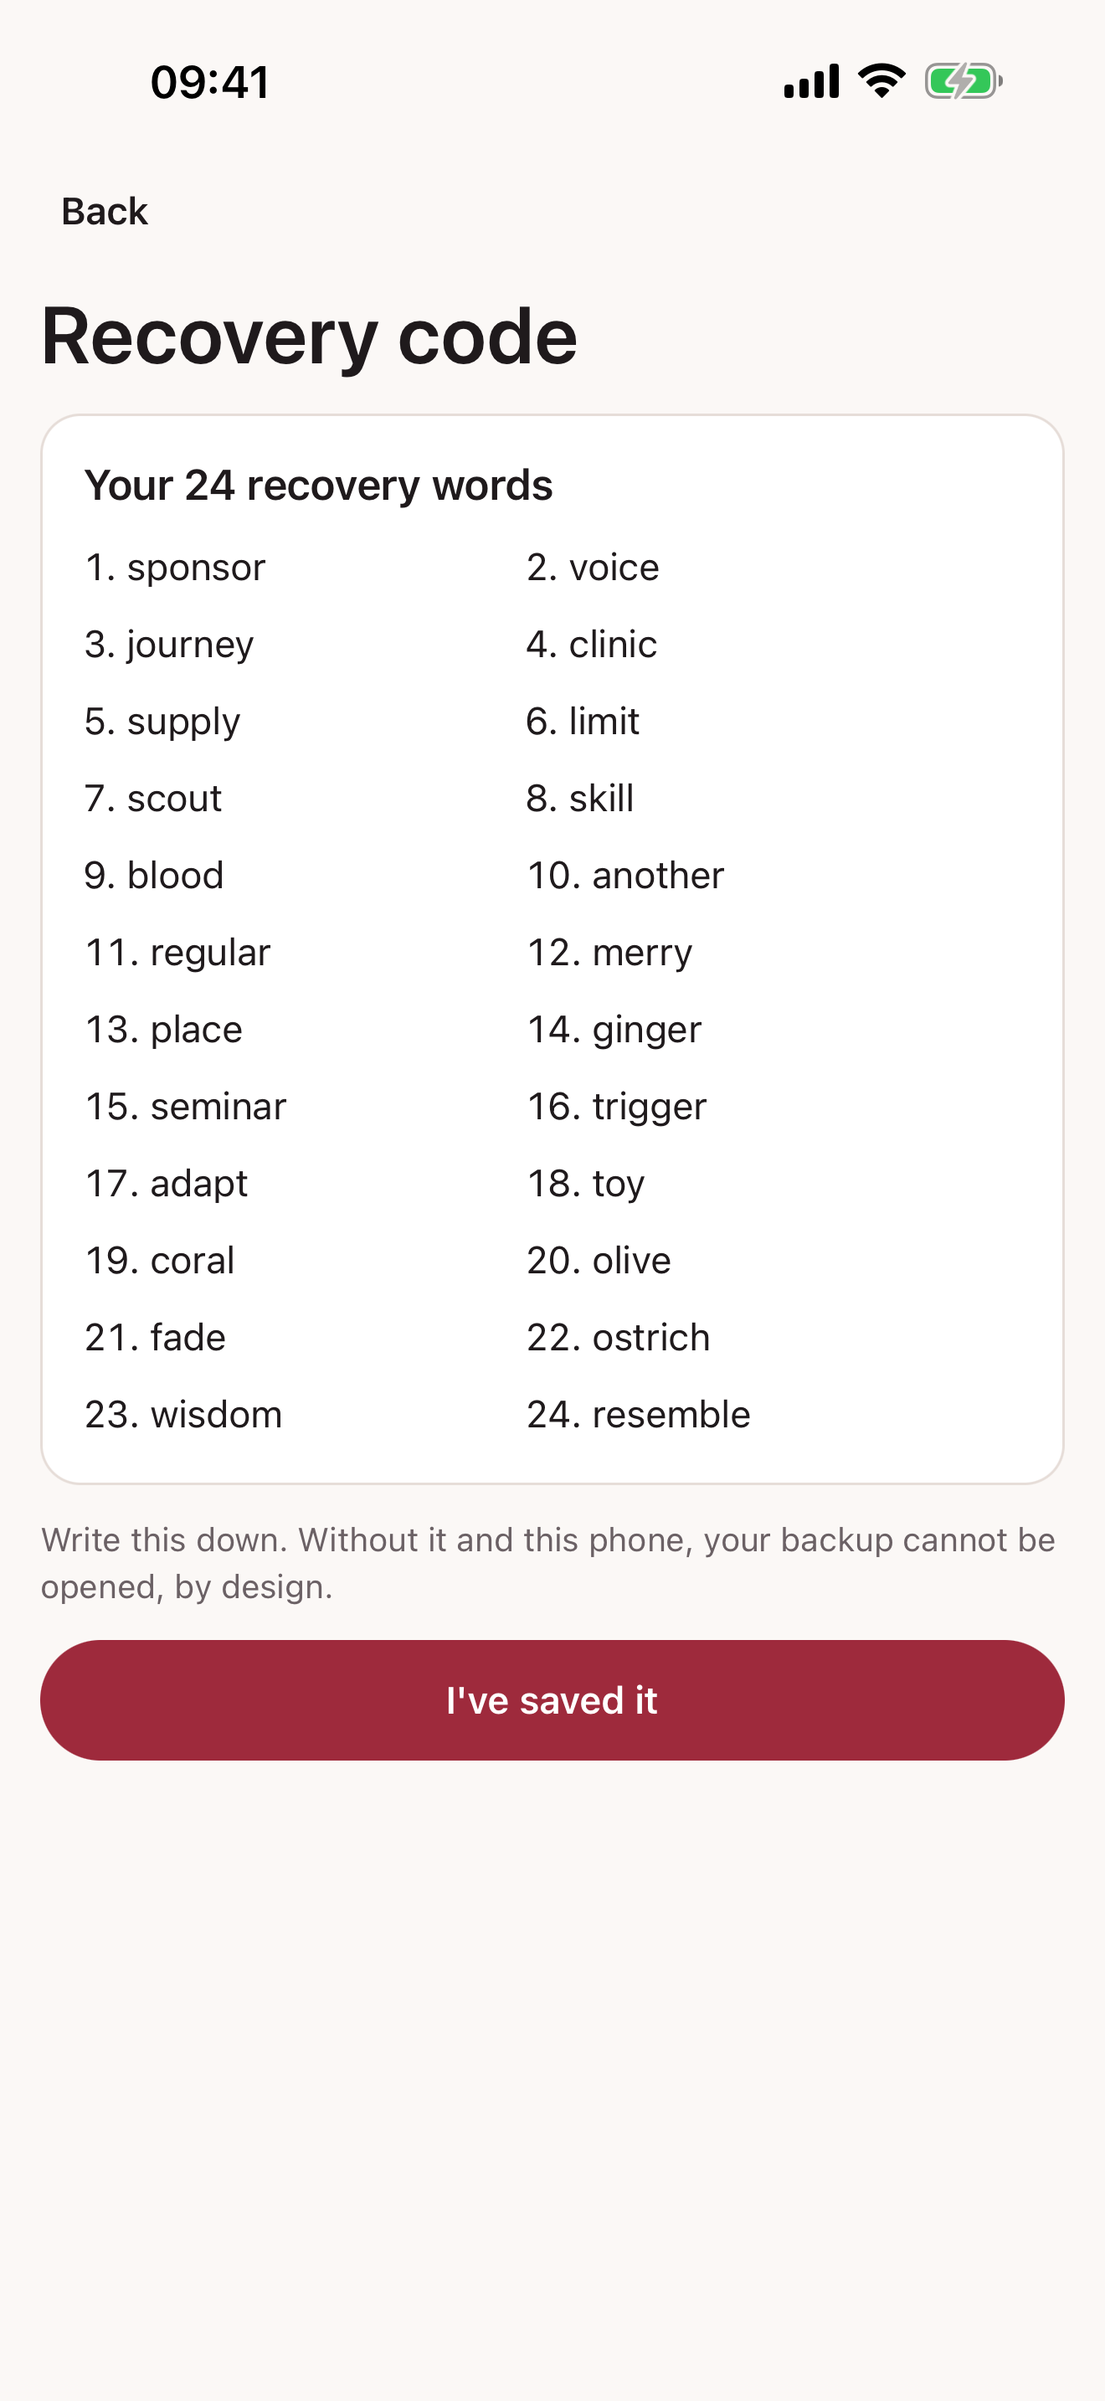
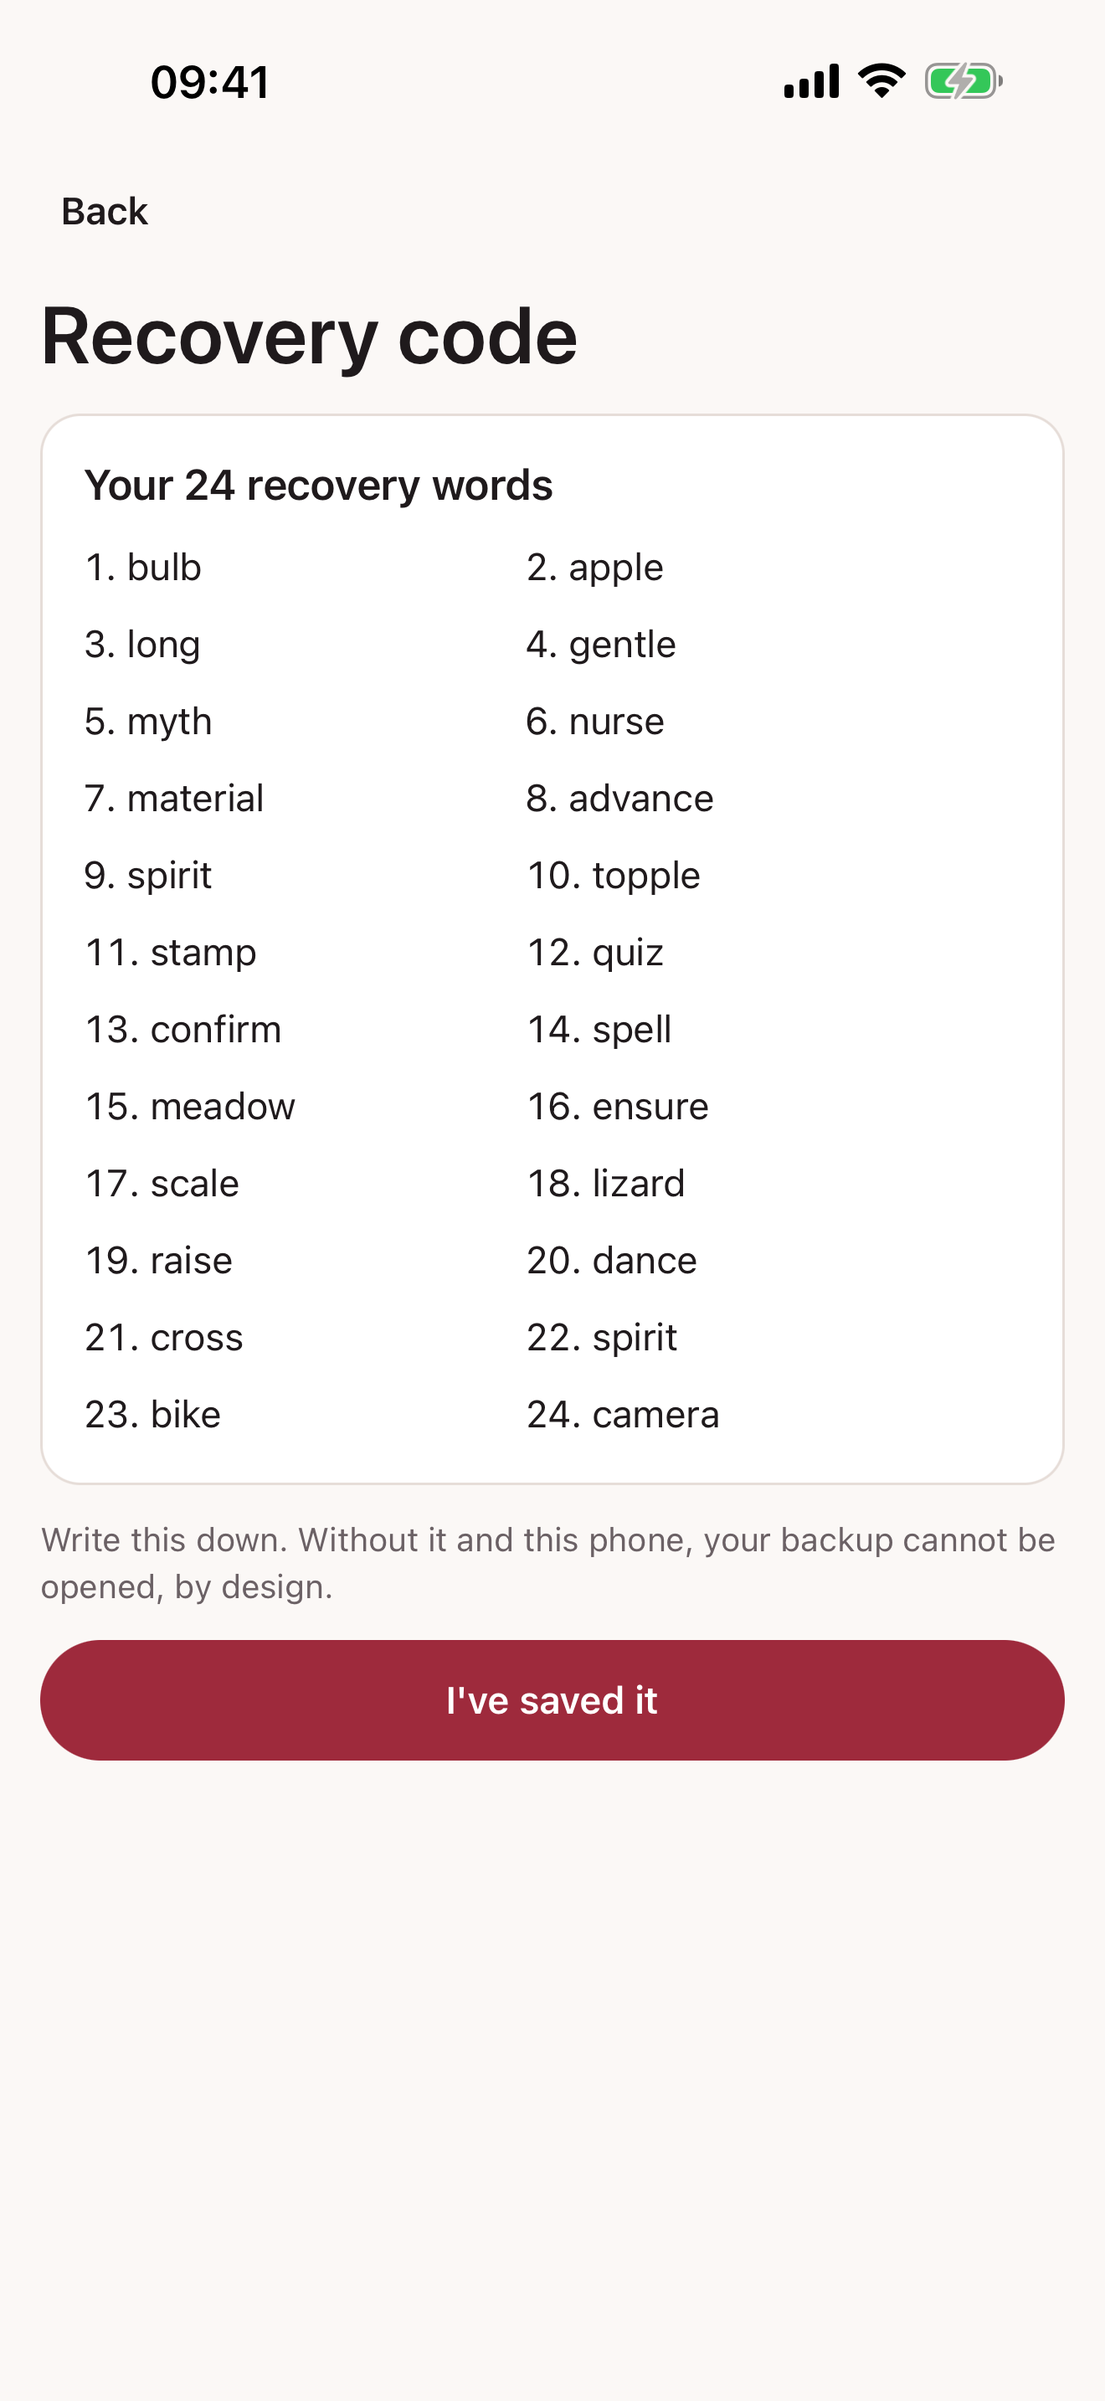
P2-12 security review fixes: masked passphrases, secure wipe, temp file cleanup

Changed region(s): [[0.528, 0.2172, 0.6523, 0.6206], [0.1242, 0.2172, 0.2485, 0.6206]]

diff --git a/apps/mobile/src/app/settings/backup.tsx b/apps/mobile/src/app/settings/backup.tsx
@@ -42,7 +42,7 @@ export default function BackupScreen() {
       if (__DEV__) console.log(`[backup] sealed ${bytes.length} bytes in ${Date.now() - started} ms`);
       if (created) setPending({ bytes, words: recoveryCodeFor(secret) });
       else { await shareFile(bytes, `sanguine-backup-${todayLocal()}.sgb`, 'application/octet-stream'); setMsg(t('settings.privacy.backupReady')); }
-    } catch (e) { setMsg((e as Error).message); } finally { setPct(undefined); }
+    } catch (e) { setMsg((e as Error).message); } finally { setPct(undefined); setPass(''); setPass2(''); }
   }
   async function restore() {
     if (!db || !store) return;
@@ -60,7 +60,7 @@ export default function BackupScreen() {
       if (r) { await refresh(); setMsg(t('settings.privacy.importDone', { n: r.imported })); }
     } catch (e) {
       setMsg(e instanceof BackupError && e.code === 'auth' ? t('settings.privacy.restoreWrongPassphrase') : (e as Error).message);
-    } finally { setPct(undefined); }
+    } finally { setPct(undefined); setPass(''); setCode(''); }
   }
 
   if (pending) {
@@ -87,8 +87,8 @@ export default function BackupScreen() {
     <SubScreen testID="screen-backup" title={t('settings.privacy.backup')}>
       <Segmented testIDPrefix="backup-mode" value={mode} onChange={(m) => { setMode(m); setMsg(undefined); }} options={[{ value: 'create', label: t('settings.privacy.backupCreate') }, { value: 'restore', label: t('settings.privacy.backupRestore') }]} />
       <Text variant="bodySmall" color="textSecondary">{t('settings.privacy.backupNote')}</Text>
-      <TextField testID="backup-pass" label={t('settings.privacy.passphrase')} value={pass} onChangeText={setPass} keyboardType="default" />
-      {mode === 'create' ? <TextField testID="backup-pass2" label={t('settings.privacy.passphraseConfirm')} value={pass2} onChangeText={setPass2} keyboardType="default" /> : <TextField testID="restore-code" label={t('settings.privacy.restoreCodeLabel')} value={code} onChangeText={setCode} keyboardType="default" />}
+      <TextField testID="backup-pass" secure label={t('settings.privacy.passphrase')} value={pass} onChangeText={setPass} keyboardType="default" />
+      {mode === 'create' ? <TextField testID="backup-pass2" secure label={t('settings.privacy.passphraseConfirm')} value={pass2} onChangeText={setPass2} keyboardType="default" /> : <TextField testID="restore-code" secure label={t('settings.privacy.restoreCodeLabel')} value={code} onChangeText={setCode} keyboardType="default" />}
       <Button testID={mode === 'create' ? 'backup-create' : 'backup-restore'} label={mode === 'create' ? t('settings.privacy.backupCreate') : t('settings.privacy.restorePick')} disabled={pct !== undefined || pass.length === 0} onPress={() => void (mode === 'create' ? create() : restore())} />
       {pct !== undefined ? <Text variant="bodySmall" testID="backup-progress" accessibilityLiveRegion="polite">{t('settings.privacy.backupWorking', { pct })}</Text> : null}
       {msg ? <Text variant="bodySmall" testID="backup-message" accessibilityLiveRegion="polite">{msg}</Text> : null}

diff --git a/apps/mobile/src/features/notifications/plan.test.ts b/apps/mobile/src/features/notifications/plan.test.ts
@@ -1,0 +1,34 @@
+import { addDays, type EngineSettings, type History, type ISODate, predict } from '@sanguine/engine';
+import { describe, expect, it } from 'vitest';
+import { planReminder, REMINDER_HOUR } from './plan';
+
+const S: EngineSettings = { lifeStates: [], recencyLambda: 1, window: 12 };
+function hist(): History {
+  const starts: ISODate[] = ['2026-09-30'];
+  for (const l of [29, 28]) starts.unshift(addDays(starts[0] as ISODate, -l));
+  return { cycles: starts.map((s, i) => ({ id: `c${i}`, start: s, quality: 'valid' as const })), temperatures: [], lh: [], mucus: [], cervix: [], logs: [] };
+}
+const today = '2026-10-10';
+const p = predict(hist(), S, today);
+
+describe('planReminder', () => {
+  it('fires the day before the 80% range starts, at 09:00, with the days until the range', () => {
+    const plan = planReminder(p, true, false, today, 8);
+    const lo = p.nextPeriod?.i80.lo as string;
+    expect(plan?.fireDate).toBe(addDays(lo, -1));
+    expect(plan?.hour).toBe(REMINDER_HOUR);
+    expect(plan?.lo).toBe(1);
+    expect(plan?.hi).toBeGreaterThan(plan?.lo ?? 99);
+    expect(plan?.descriptive).toBe(false);
+  });
+  it('nothing when off, paused, without a prediction, or when the moment has passed', () => {
+    expect(planReminder(p, false, false, today, 8)).toBeUndefined();
+    expect(planReminder(undefined, true, false, today, 8)).toBeUndefined();
+    const paused = predict(hist(), { ...S, lifeStates: [{ kind: 'pregnant', since: '2026-09-01' }] }, today);
+    expect(planReminder(paused, true, false, today, 8)).toBeUndefined();
+    const fire = addDays(p.nextPeriod?.i80.lo as string, -1);
+    expect(planReminder(p, true, false, addDays(fire, 1), 8)).toBeUndefined();
+    expect(planReminder(p, true, false, fire, 10)).toBeUndefined();
+    expect(planReminder(p, true, false, fire, 8)?.fireDate).toBe(fire);
+  });
+});

diff --git a/apps/mobile/src/services/exportImport.ts b/apps/mobile/src/services/exportImport.ts
@@ -6,6 +6,7 @@ import { exportBundle, importBundle, importPeriodCsv, type CsvImportResult, type
 import type { Database } from '@/data/database';
 import type { EventStore } from '@/data/store';
 import { deviceClock, todayLocal } from './clock';
+import { removeTempFile } from './tempFiles';
 
 export async function shareExport(db: Database, store: EventStore): Promise<{ events: number }> {
   const { zip, eventCount } = await exportBundle(db, store, deviceClock);
@@ -13,7 +14,11 @@ export async function shareExport(db: Database, store: EventStore): Promise<{ ev
   if (file.exists) file.delete();
   file.create();
   file.write(zip);
-  await Sharing.shareAsync(file.uri, { mimeType: 'application/zip', UTI: 'public.zip-archive', dialogTitle: 'Sanguine export' });
+  try {
+    await Sharing.shareAsync(file.uri, { mimeType: 'application/zip', UTI: 'public.zip-archive', dialogTitle: 'Sanguine export' });
+  } finally {
+    removeTempFile(file);
+  }
   return { events: eventCount };
 }
 
@@ -25,6 +30,10 @@ export async function pickAndImport(db: Database, store: EventStore): Promise<Pi
   const asset = picked.canceled ? undefined : picked.assets[0];
   if (!asset) return { kind: 'cancelled' };
   const file = new File(asset.uri);
-  if (/\.zip$/i.test(asset.name) || asset.mimeType === 'application/zip') return { kind: 'sanguine', result: await importBundle(db, store, await file.bytes()) };
-  return { kind: 'csv', result: await importPeriodCsv(db, store, await file.text(), todayLocal()) };
+  try {
+    if (/\.zip$/i.test(asset.name) || asset.mimeType === 'application/zip') return { kind: 'sanguine', result: await importBundle(db, store, await file.bytes()) };
+    return { kind: 'csv', result: await importPeriodCsv(db, store, await file.text(), todayLocal()) };
+  } finally {
+    removeTempFile(file);
+  }
 }

diff --git a/apps/mobile/src/ui/TextField.tsx b/apps/mobile/src/ui/TextField.tsx
@@ -3,8 +3,8 @@ import { useTheme } from '@/theme';
 import { Text } from './Text';
 
 /** Labelled numeric/text input. The label doubles as the accessibility label; errors are announced with the field. */
-export function TextField({ label, value, onChangeText, error, helper, keyboardType = 'number-pad', maxLength, testID, placeholder, onSubmit }: {
-  label: string; value: string; onChangeText: (s: string) => void; error?: string | undefined; helper?: string; keyboardType?: 'number-pad' | 'default' | 'numbers-and-punctuation' | 'decimal-pad'; maxLength?: number; testID?: string; placeholder?: string; onSubmit?: () => void;
+export function TextField({ label, value, onChangeText, error, helper, keyboardType = 'number-pad', maxLength, testID, placeholder, onSubmit, secure }: {
+  label: string; value: string; onChangeText: (s: string) => void; error?: string | undefined; helper?: string; keyboardType?: 'number-pad' | 'default' | 'numbers-and-punctuation' | 'decimal-pad'; maxLength?: number; testID?: string; placeholder?: string; onSubmit?: () => void; /** Passphrases and recovery codes: masked, no suggestions, no autocorrect learning. */ secure?: boolean;
 }) {
   const t = useTheme();
   return (
@@ -18,6 +18,7 @@ export function TextField({ label, value, onChangeText, error, helper, keyboardT
         onChangeText={onChangeText}
         keyboardType={keyboardType}
         returnKeyType={onSubmit ? 'done' : 'default'}
+        {...(secure ? { secureTextEntry: true, autoCorrect: false, autoCapitalize: 'none' as const, spellCheck: false, textContentType: 'none' as const, importantForAutofill: 'no' as const } : {})}
         onSubmitEditing={onSubmit}
         maxLength={maxLength}
         placeholder={placeholder}

diff --git a/apps/mobile/src/services/backup.ts b/apps/mobile/src/services/backup.ts
@@ -7,6 +7,7 @@ import type { Database } from '@/data/database';
 import type { ImportResult } from '@/data/exportImport';
 import type { EventStore } from '@/data/store';
 import { deviceClock, todayLocal } from './clock';
+import { removeTempFile } from './tempFiles';
 import { getOrCreateDeviceSecret } from './secrets';
 
 export async function shareBackup(db: Database, store: EventStore, passphrase: string, onProgress?: (f: number) => void): Promise<{ recoveryCreated: boolean; secret: Uint8Array }> {
@@ -16,7 +17,11 @@ export async function shareBackup(db: Database, store: EventStore, passphrase: s
   if (file.exists) file.delete();
   file.create();
   file.write(bytes);
-  await Sharing.shareAsync(file.uri, { mimeType: 'application/octet-stream', dialogTitle: 'Sanguine encrypted backup' });
+  try {
+    await Sharing.shareAsync(file.uri, { mimeType: 'application/octet-stream', dialogTitle: 'Sanguine encrypted backup' });
+  } finally {
+    removeTempFile(file);
+  }
   return { recoveryCreated: created, secret };
 }
 
@@ -25,5 +30,10 @@ export async function pickAndRestore(db: Database, store: EventStore, passphrase
   const picked = await DocumentPicker.getDocumentAsync({ type: '*/*', copyToCacheDirectory: true, multiple: false });
   const asset = picked.canceled ? undefined : picked.assets[0];
   if (!asset) return null;
-  return restoreBackup(db, store, await new File(asset.uri).bytes(), passphrase, deviceSecret, onProgress);
+  const picked2 = new File(asset.uri);
+  try {
+    return await restoreBackup(db, store, await picked2.bytes(), passphrase, deviceSecret, onProgress);
+  } finally {
+    removeTempFile(picked2);
+  }
 }

diff --git a/apps/mobile/src/features/lock/lockModel.test.ts b/apps/mobile/src/features/lock/lockModel.test.ts
@@ -1,0 +1,19 @@
+import { describe, expect, it } from 'vitest';
+import { LOCK_AFTER_MS, shouldLock } from './lockModel';
+
+const base = { appLock: true, available: true, unlockedThisSession: true, backgroundedAt: undefined, now: 1_000_000 };
+
+describe('shouldLock', () => {
+  it('locks on first open of a session', () => expect(shouldLock({ ...base, unlockedThisSession: false })).toBe(true));
+  it('stays unlocked while in use', () => expect(shouldLock(base)).toBe(false));
+  it('locks after a minute in the background, not before', () => {
+    expect(shouldLock({ ...base, backgroundedAt: base.now - (LOCK_AFTER_MS - 1) })).toBe(false);
+    expect(shouldLock({ ...base, backgroundedAt: base.now - LOCK_AFTER_MS })).toBe(true);
+  });
+  it('is off when the setting is off or the phone has no screen lock', () => {
+    expect(shouldLock({ ...base, appLock: false, unlockedThisSession: false })).toBe(false);
+    expect(shouldLock({ ...base, available: false, unlockedThisSession: false })).toBe(false);
+  });
+  it('honours a shorter delay (development)', () => expect(shouldLock({ ...base, backgroundedAt: base.now - 3000, lockAfterMs: 2000 })).toBe(true));
+  it('the delay is 60 seconds', () => expect(LOCK_AFTER_MS).toBe(60_000));
+});

diff --git a/apps/mobile/src/data/wipe.ts b/apps/mobile/src/data/wipe.ts
@@ -4,6 +4,8 @@ import type { Database } from './database';
 import { migrate } from './migrate';
 
 export async function wipeAll(db: Database): Promise<void> {
+  // overwrite freed pages with zeros so the dropped tables cannot be read back from the file
+  await db.exec('PRAGMA secure_delete = ON');
   await db.transaction(async (tx) => {
     const objs = await tx.all<{ type: string; name: string }>("SELECT type, name FROM sqlite_master WHERE name NOT LIKE 'sqlite_%' AND type IN ('trigger','table','index')");
     for (const o of objs.filter((x) => x.type === 'trigger')) await tx.exec(`DROP TRIGGER IF EXISTS "${o.name}"`);
@@ -12,5 +14,8 @@ export async function wipeAll(db: Database): Promise<void> {
     const tables = objs.filter((x) => x.type === 'table').map((x) => x.name);
     for (const name of [...order.filter((n) => tables.includes(n)), ...tables.filter((n) => !order.includes(n))]) await tx.exec(`DROP TABLE IF EXISTS "${name}"`);
   });
+  // fold the write-ahead log into the main file and rebuild it, so no deleted page survives in either
+  await db.exec('PRAGMA wal_checkpoint(TRUNCATE)');
+  await db.exec('VACUUM');
   await migrate(db);
 }

diff --git a/apps/mobile/src/features/notifications/plan.ts b/apps/mobile/src/features/notifications/plan.ts
@@ -1,0 +1,13 @@
+// What to schedule (PLAN.md §6.1, §8.8). One local reminder the day before the 80% range starts, at 09:00; no push, no network.
+import { addDays, diffDays, type ISODate, type Prediction } from '@sanguine/engine';
+
+export const REMINDER_HOUR = 9;
+export interface ReminderPlan { fireDate: ISODate; hour: number; descriptive: boolean; lo: number; hi: number }
+
+/** Returns the reminder to schedule, or undefined (feature off, estimates paused, no prediction, or the day has passed). */
+export function planReminder(p: Prediction | undefined, enabled: boolean, descriptive: boolean, today: ISODate, nowHour: number): ReminderPlan | undefined {
+  if (!enabled || !p || p.suspended || !p.nextPeriod) return undefined;
+  const fireDate = addDays(p.nextPeriod.i80.lo, -1);
+  if (fireDate < today || (fireDate === today && nowHour >= REMINDER_HOUR)) return undefined;
+  return { fireDate, hour: REMINDER_HOUR, descriptive, lo: diffDays(p.nextPeriod.i80.lo, fireDate), hi: diffDays(p.nextPeriod.i80.hi, fireDate) };
+}

diff --git a/apps/mobile/src/services/tempFiles.ts b/apps/mobile/src/services/tempFiles.ts
@@ -1,0 +1,19 @@
+// Export zips, backups and picked import files are written to the cache. They hold health data in the clear (exports) or
+// encrypted (backups), so they are removed as soon as they have been used and again on "Delete everything".
+import { Directory, File, Paths } from 'expo-file-system';
+
+const OURS = /^sanguine-.*\.(zip|sgb)$/i;
+
+export function removeTempFile(file: File): void {
+  try { if (file.exists) file.delete(); } catch { /* best effort: the file may already be gone */ }
+}
+
+/** Removes every file this app wrote to the cache, plus copies made by the document picker. */
+export function removeAllTempFiles(): void {
+  try {
+    for (const item of new Directory(Paths.cache).list()) {
+      if (item instanceof File) { if (OURS.test(item.name)) removeTempFile(item); }
+      else if (/DocumentPicker/i.test(item.name)) { try { item.delete(); } catch { /* ignore */ } }
+    }
+  } catch { /* the cache may be unavailable; nothing to remove */ }
+}

diff --git a/apps/mobile/src/state/app.ts b/apps/mobile/src/state/app.ts
@@ -5,6 +5,7 @@ import type { Database } from '@/data/database';
 import { flagContext, loadFlagState, muteFlag, recordRaised } from '@/data/flagState';
 import { wipeAll } from '@/data/wipe';
 import { deleteDeviceSecret, deleteNoteKey } from '@/services/secrets';
+import { removeAllTempFiles } from '@/services/tempFiles';
 import { loadPrefs, type Prefs, DEFAULT_PREFS, savePrefs } from '@/data/prefs';
 import type { Profile } from '@/data/project';
 import { getSetting, setSetting } from '@/data/settings';
@@ -94,6 +95,7 @@ export const useApp = create<AppState>((set, get) => ({
     if (!db) return;
     await wipeAll(db);
     await Promise.all([deleteDeviceSecret(), deleteNoteKey()]);
+    removeAllTempFiles();
     set({ prefs: DEFAULT_PREFS, profile: {}, onboarded: false, history: undefined, settings: undefined, prediction: undefined, version: get().version + 1 });
     await get().refresh();
   },

diff --git a/apps/mobile/src/data/wipe.test.ts b/apps/mobile/src/data/wipe.test.ts
@@ -26,3 +26,18 @@ describe('wipeAll', () => {
     expect((await db.all('SELECT version FROM schema_migration')).length).toBe(1);
   });
 });
+
+describe('wipeAll leaves nothing readable behind', () => {
+  it('overwrites freed pages, checkpoints the log and vacuums, in that order, outside the drop transaction', async () => {
+    const db = openTestDb();
+    await migrate(db);
+    const sql: string[] = [];
+    const exec = db.exec.bind(db);
+    db.exec = async (q: string) => { sql.push(q.trim()); return exec(q); }; // the transaction callback receives this same object
+    await wipeAll(db);
+    const at = (needle: string) => sql.findIndex((q) => q.includes(needle));
+    expect(at('secure_delete = ON')).toBe(0);
+    expect(at('wal_checkpoint(TRUNCATE)')).toBeGreaterThan(at('DROP TABLE'));
+    expect(at('VACUUM')).toBeGreaterThan(at('wal_checkpoint(TRUNCATE)'));
+  });
+});

diff --git a/apps/mobile/src/features/lock/lockModel.ts b/apps/mobile/src/features/lock/lockModel.ts
@@ -1,0 +1,18 @@
+// When the app locks (PLAN.md §8.8): on first open, and after a minute in the background. Pure so it can be tested.
+export const LOCK_AFTER_MS = 60_000;
+
+export interface LockInput {
+  appLock: boolean; // user setting
+  available: boolean; // the phone has Face ID, a fingerprint or a passcode
+  unlockedThisSession: boolean;
+  backgroundedAt: number | undefined;
+  now: number;
+  lockAfterMs?: number;
+}
+
+/** True when the lock screen must cover the app. If the phone has no screen lock the lock cannot work and stays off. */
+export function shouldLock(i: LockInput): boolean {
+  if (!i.appLock || !i.available) return false;
+  if (!i.unlockedThisSession) return true;
+  return i.backgroundedAt !== undefined && i.now - i.backgroundedAt >= (i.lockAfterMs ?? LOCK_AFTER_MS);
+}
